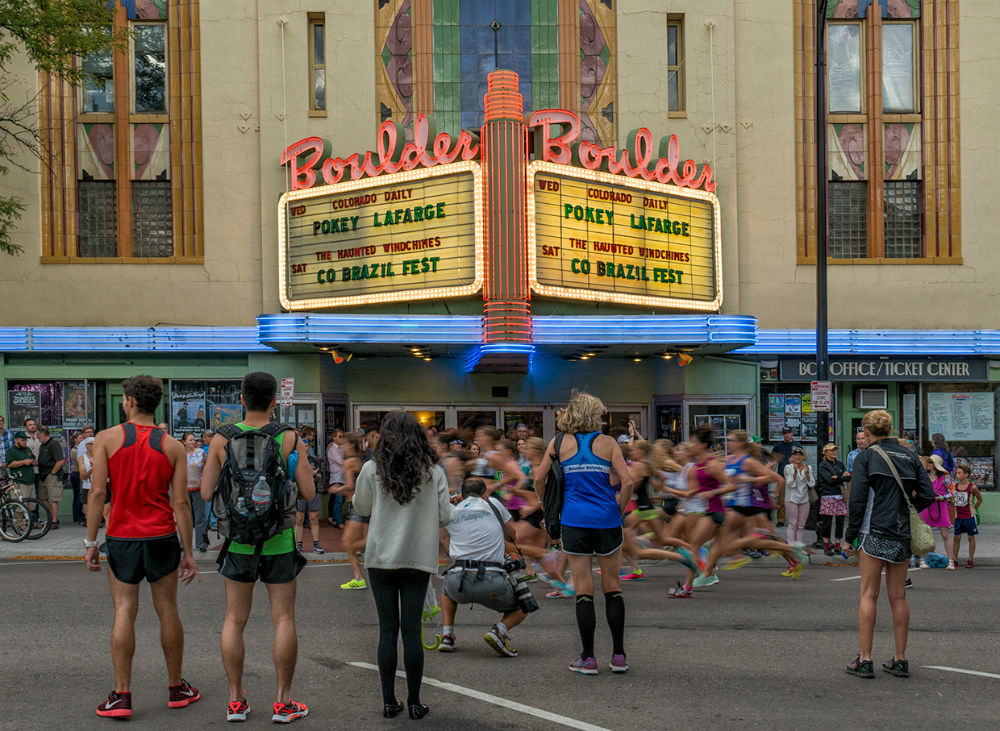
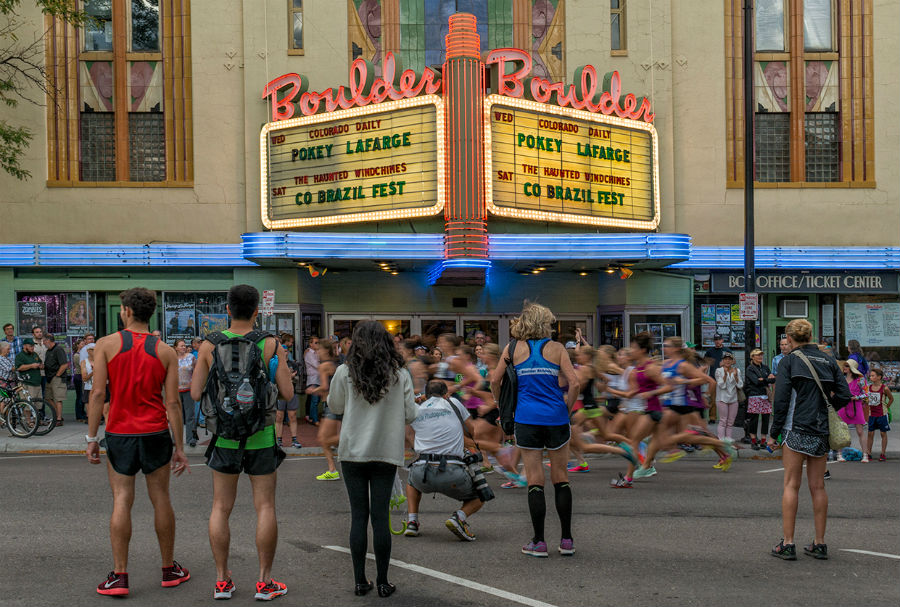
resize pearl street mile picture

diff --git a/photos.html b/photos.html
@@ -95,10 +95,10 @@
       <img class="pure-img center album" src="/static/alex_le_triplec_100k.jpg" alt="alex le triple c 100k bike ride" /></a>
    <a href="/static/alex_le_broncos_colts.jpg">
       <img class="pure-img center album" src="/static/alex_le_broncos_colts.jpg" alt="alex le broncos colts home opening game" /></a>
+   <a href="/static/grays_victory.jpg">
+      <img class="pure-img center album" src="/static/grays_victory.jpg" alt="alex le grays peak" /></a>
    <a href="/static/alex_le_cbr600.jpg">
       <img class="pure-img center album" src="/static/alex_le_cbr600.jpg" alt="alex le cbr 600 f4i" /></a>
-   <a href="/static/alex_le_wed_rec_hockey.jpg">
-      <img class="pure-img center album" src="/static/alex_le_wed_rec_hockey.jpg" alt="alex le wednesday rec league hockey champions" /></a>
 </div>
 
 <div class="pure-u-1-2">
@@ -118,10 +118,10 @@
       <img class="pure-img center album" src="/static/alex_le_conundrum_escape_room.jpg" alt="alex le conundrum escape room" /></a>
    <a href="/static/alex_le_eerie_erie_2016.jpg">
       <img class="pure-img center album" src="/static/alex_le_eerie_erie_2016.jpg" alt="alex le eerie erie 2016 5k race" /></a>
-   <a href="/static/grays_victory.jpg">
-      <img class="pure-img center album" src="/static/grays_victory.jpg" alt="alex le grays peak" /></a>
-   <a href="/static/alex_le_pearl_street_mile_daniel_joder_crop2.jpg">
-      <img class="pure-img center album" src="/static/alex_le_pearl_street_mile_daniel_joder_crop2.jpg" alt="alex le pearl street mile by daniel joder" /></a>
+   <a href="/static/alex_le_wed_rec_hockey.jpg">
+      <img class="pure-img center album" src="/static/alex_le_wed_rec_hockey.jpg" alt="alex le wednesday rec league hockey champions" /></a>
+   <a href="/static/alex_le_pearl_street_mile_daniel_joder_crop.jpg">
+      <img class="pure-img center album" src="/static/alex_le_pearl_street_mile_daniel_joder_crop.jpg" alt="alex le pearl street mile by daniel joder" /></a>
 </div>
 
 </div>

diff --git a/templates/photos.html b/templates/photos.html
@@ -41,10 +41,10 @@
       <img class="pure-img center album" src="/static/alex_le_triplec_100k.jpg" alt="alex le triple c 100k bike ride" /></a>
    <a href="/static/alex_le_broncos_colts.jpg">
       <img class="pure-img center album" src="/static/alex_le_broncos_colts.jpg" alt="alex le broncos colts home opening game" /></a>
+   <a href="/static/grays_victory.jpg">
+      <img class="pure-img center album" src="/static/grays_victory.jpg" alt="alex le grays peak" /></a>
    <a href="/static/alex_le_cbr600.jpg">
       <img class="pure-img center album" src="/static/alex_le_cbr600.jpg" alt="alex le cbr 600 f4i" /></a>
-   <a href="/static/alex_le_wed_rec_hockey.jpg">
-      <img class="pure-img center album" src="/static/alex_le_wed_rec_hockey.jpg" alt="alex le wednesday rec league hockey champions" /></a>
 </div>
 
 <div class="pure-u-1-2">
@@ -64,10 +64,10 @@
       <img class="pure-img center album" src="/static/alex_le_conundrum_escape_room.jpg" alt="alex le conundrum escape room" /></a>
    <a href="/static/alex_le_eerie_erie_2016.jpg">
       <img class="pure-img center album" src="/static/alex_le_eerie_erie_2016.jpg" alt="alex le eerie erie 2016 5k race" /></a>
-   <a href="/static/grays_victory.jpg">
-      <img class="pure-img center album" src="/static/grays_victory.jpg" alt="alex le grays peak" /></a>
-   <a href="/static/alex_le_pearl_street_mile_daniel_joder_crop2.jpg">
-      <img class="pure-img center album" src="/static/alex_le_pearl_street_mile_daniel_joder_crop2.jpg" alt="alex le pearl street mile by daniel joder" /></a>
+   <a href="/static/alex_le_wed_rec_hockey.jpg">
+      <img class="pure-img center album" src="/static/alex_le_wed_rec_hockey.jpg" alt="alex le wednesday rec league hockey champions" /></a>
+   <a href="/static/alex_le_pearl_street_mile_daniel_joder_crop.jpg">
+      <img class="pure-img center album" src="/static/alex_le_pearl_street_mile_daniel_joder_crop.jpg" alt="alex le pearl street mile by daniel joder" /></a>
 </div>
 
 </div>

diff --git a/blog/pearl_street_mile.html b/blog/pearl_street_mile.html
@@ -69,7 +69,7 @@
 
    <p class="post-content">
       <p>
-<img class="pure-img center" src="/static/alex_le_pearl_street_mile_daniel_joder_crop2.jpg" alt="pearl street mile alex le image by daniel joder" />
+<img class="pure-img center" src="/static/alex_le_pearl_street_mile_daniel_joder_crop.jpg" alt="pearl street mile alex le image by daniel joder" />
 <div class="separator">Photo by <a href="http://www.danieljoderphotography.com/">Daniel Joder</a></div>
 </p>
 
